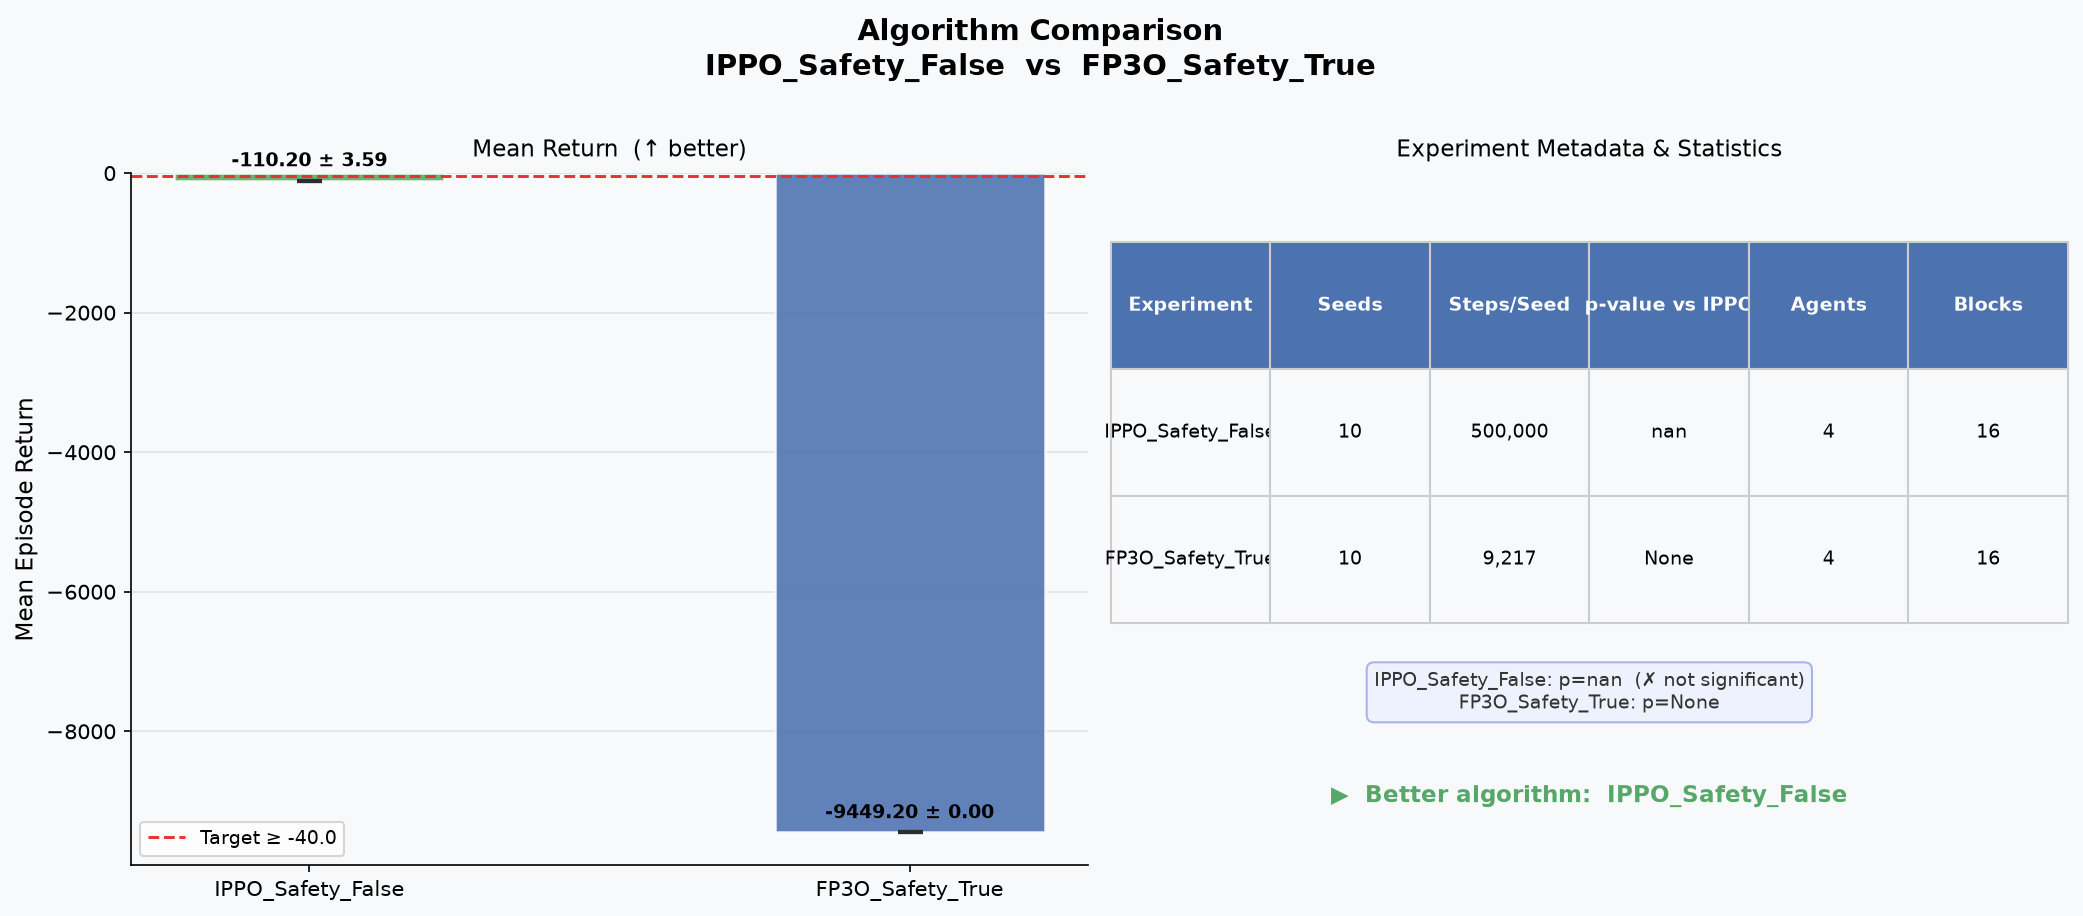
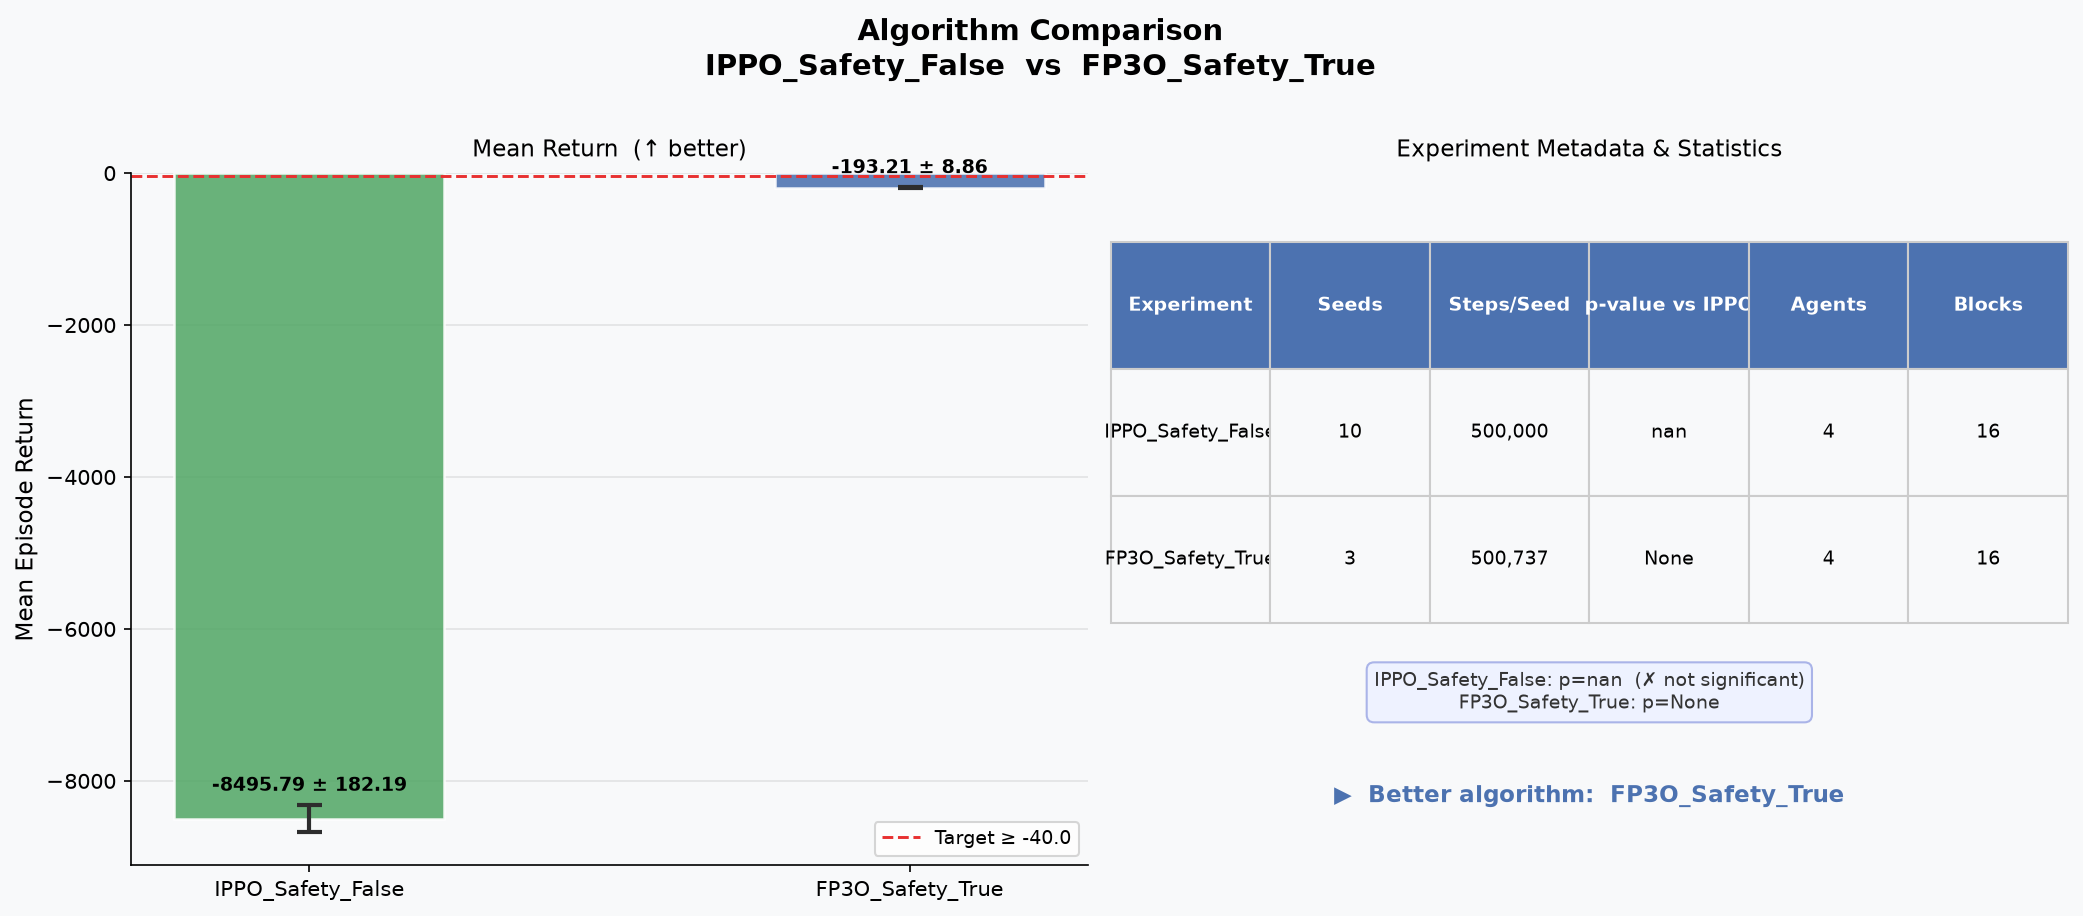
chore : increase batch size against previous feedback

diff --git a/train_mappo.py b/train_mappo.py
@@ -131,9 +131,12 @@ def train_algorithm(
     save_dir: str       = "results/marl_models",
     n_envs: int          = 10,
     n_steps: int         = 2048,
-    batch_size: int      = 64,
+    batch_size: int      = 512,
+    n_epochs: int        = 10,
+    ent_coef: float      = 0.02,
     device: str          = "auto",
     death_masking: bool  = True,
+    seed: int            = 42,
 ) -> None:
     """
     Train Independent PPO (IPPO) on the multi-agent OTA env.
@@ -233,16 +236,18 @@ def train_algorithm(
         learning_rate   = 3e-4,
         n_steps         = n_steps,
         batch_size      = batch_size,
+        n_epochs        = n_epochs,
         gae_lambda      = 0.95,
         gamma           = 0.99,
         clip_range      = 0.2,
-        ent_coef        = 0.01,
+        ent_coef        = ent_coef,
         vf_coef         = 0.5,
         max_grad_norm   = 0.5,
+        seed            = seed,
     )
-    # Seed RNGs without triggering env.seed() propagation (SB3 >=2.x)
-    np.random.seed(42)
-    torch.manual_seed(42)
+    # Seed RNGs with the per-seed value so each seed genuinely differs
+    np.random.seed(seed)
+    torch.manual_seed(seed)
 
     print(f"\n  Starting {algorithm.upper()} training on {selected_device}...")
     t0 = time.time()

diff --git a/web_ui.py b/web_ui.py
@@ -213,7 +213,11 @@ def build_command(payload: dict) -> list[str]:
         "--n_steps",
         str(int(payload.get("n_steps", 2048))),
         "--batch_size",
-        str(int(payload.get("batch_size", 64))),
+        str(int(payload.get("batch_size", 512))),
+        "--n_epochs",
+        str(int(payload.get("n_epochs", 10))),
+        "--ent_coef",
+        str(float(payload.get("ent_coef", 0.02))),
         "--device",
         payload.get("device", "auto"),
         "--bd_mode",

diff --git a/config.py b/config.py
@@ -67,11 +67,12 @@ TRAIN_CFG = dict(
     # PPO on-policy
     learning_rate  = 3e-4,
     n_steps        = 2048,   # rollout horizon per env
-    batch_size     = 64,
+    batch_size     = 512,    # must divide n_steps*n_envs (20480); was 64 — too noisy
+    n_epochs       = 10,     # PPO gradient passes per rollout
     gae_lambda     = 0.95,
     gamma          = 0.99,
     clip_range     = 0.2,
-    ent_coef       = 0.01,
+    ent_coef       = 0.02,   # slightly higher entropy to encourage exploration early
     vf_coef        = 0.5,
     max_grad_norm  = 0.5,
 

diff --git a/main.py b/main.py
@@ -90,6 +90,8 @@ def main():
     parser.add_argument("--n_envs", type=int, default=TRAIN_CFG["n_envs"], help="Parallel rollout environments")
     parser.add_argument("--n_steps", type=int, default=TRAIN_CFG["n_steps"], help="PPO rollout horizon per environment")
     parser.add_argument("--batch_size", type=int, default=TRAIN_CFG["batch_size"], help="PPO minibatch size")
+    parser.add_argument("--n_epochs", type=int, default=TRAIN_CFG["n_epochs"], help="PPO gradient epochs per rollout")
+    parser.add_argument("--ent_coef", type=float, default=TRAIN_CFG["ent_coef"], help="PPO entropy coefficient")
     parser.add_argument("--device", choices=["auto", "cpu", "cuda"], default="auto", help="Training device")
     parser.add_argument("--bd_mode", type=lambda x: str(x).lower() == "true", default=True, help="Enable constrained BD network")
     parser.add_argument("--death_masking", type=lambda x: str(x).lower() == "true", default=True, help="Enable death masking")
@@ -150,8 +152,11 @@ def main():
                 n_envs          = args.n_envs,
                 n_steps         = args.n_steps,
                 batch_size      = args.batch_size,
+                n_epochs        = args.n_epochs,
+                ent_coef        = args.ent_coef,
                 device          = args.device,
                 death_masking   = args.death_masking,
+                seed            = seed,
             )
             elapsed = time.time() - t0
             print(f"[Seed {seed + 1}/{args.seeds}] Training completed in {elapsed:.1f}s")